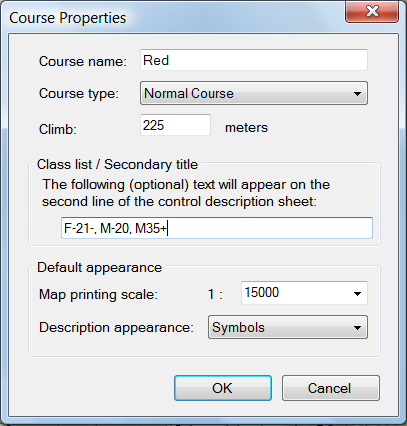
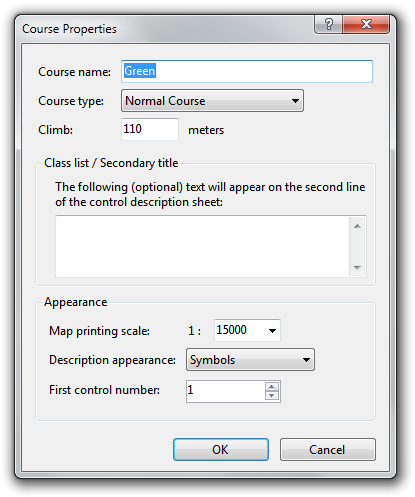
Help file and change summary for setting first control number of a course.

diff --git a/doc/userdocs/Help/CourseProperties.htm b/doc/userdocs/Help/CourseProperties.htm
@@ -38,6 +38,8 @@ dialog</a> is displayed instead.)</p>
 	automatically generated.</li>
 </li>
 </ul>
+<p><b>First control number:</b> The number given to the first control. This is typically 1, so that the course is numbered 1, 2, 3, .... If you set it to, for example, 7, 
+then the controls in the course will be numbered 7, 8, 9, .... This can be used to handle multi-part courses, map exchanges, or other special cases.</p>
 <!-- #EndEditable -->
 </BODY>
 <!-- #EndTemplate -->

diff --git a/doc/userdocs/Change Summary/change_summary.htm b/doc/userdocs/Change Summary/change_summary.htm
@@ -15,6 +15,17 @@
 <body>
 
 <h1>Purple Pen Change Summary</h1>
+<h2>Changes in 1.1.0 </h2>
+<h3>New Features</h3>
+<ul>
+<li>
+<p>You can specific the number of the first control in a course in the 
+Course/New or Course/Properties command. The number is typically 1, but you can 
+set it to another value as a way to handle multi-part courses and other special 
+situations.</p>
+</li>
+</ul>
+<h3>Bug Fixes</h3>
 <h2>Changes in 1.0.2 </h2>
 <h3>New Features</h3>
 <ul>

diff --git a/src/PurplePen/AddCourse.Designer.cs b/src/PurplePen/AddCourse.Designer.cs
@@ -71,6 +71,7 @@ namespace PurplePen
             this.oneToPrefixLabel = new System.Windows.Forms.Label();
             this.scaleCombo = new System.Windows.Forms.ComboBox();
             this.descKindCombo = new System.Windows.Forms.ComboBox();
+            this.firstControlUpDown = new System.Windows.Forms.NumericUpDown();
             this.secondaryTitleGroup = new System.Windows.Forms.GroupBox();
             this.tableLayoutPanel3 = new System.Windows.Forms.TableLayoutPanel();
             this.secondaryTitleTextBox = new System.Windows.Forms.TextBox();
@@ -84,15 +85,14 @@ namespace PurplePen
             this.flowLayoutPanel1 = new System.Windows.Forms.FlowLayoutPanel();
             this.climbTextBox = new System.Windows.Forms.TextBox();
             this.metersSuffix = new System.Windows.Forms.Label();
-            this.firstControlUpDown = new System.Windows.Forms.NumericUpDown();
             this.groupBox1.SuspendLayout();
             this.tableLayoutPanel2.SuspendLayout();
             this.flowLayoutPanel2.SuspendLayout();
+            ((System.ComponentModel.ISupportInitialize)(this.firstControlUpDown)).BeginInit();
             this.secondaryTitleGroup.SuspendLayout();
             this.tableLayoutPanel3.SuspendLayout();
             this.tableLayoutPanel1.SuspendLayout();
             this.flowLayoutPanel1.SuspendLayout();
-            ((System.ComponentModel.ISupportInitialize)(this.firstControlUpDown)).BeginInit();
             this.SuspendLayout();
             // 
             // okButton
@@ -164,6 +164,26 @@ namespace PurplePen
             resources.GetString("descKindCombo.Items1"),
             resources.GetString("descKindCombo.Items2")});
             this.descKindCombo.Name = "descKindCombo";
+            // 
+            // firstControlUpDown
+            // 
+            resources.ApplyResources(this.firstControlUpDown, "firstControlUpDown");
+            this.firstControlUpDown.Maximum = new decimal(new int[] {
+            99,
+            0,
+            0,
+            0});
+            this.firstControlUpDown.Minimum = new decimal(new int[] {
+            1,
+            0,
+            0,
+            0});
+            this.firstControlUpDown.Name = "firstControlUpDown";
+            this.firstControlUpDown.Value = new decimal(new int[] {
+            1,
+            0,
+            0,
+            0});
             // 
             // secondaryTitleGroup
             // 
@@ -250,26 +270,6 @@ namespace PurplePen
             resources.ApplyResources(this.metersSuffix, "metersSuffix");
             this.metersSuffix.Name = "metersSuffix";
             // 
-            // firstControlUpDown
-            // 
-            resources.ApplyResources(this.firstControlUpDown, "firstControlUpDown");
-            this.firstControlUpDown.Maximum = new decimal(new int[] {
-            99,
-            0,
-            0,
-            0});
-            this.firstControlUpDown.Minimum = new decimal(new int[] {
-            1,
-            0,
-            0,
-            0});
-            this.firstControlUpDown.Name = "firstControlUpDown";
-            this.firstControlUpDown.Value = new decimal(new int[] {
-            1,
-            0,
-            0,
-            0});
-            // 
             // AddCourse
             // 
             resources.ApplyResources(this, "$this");
@@ -288,6 +288,7 @@ namespace PurplePen
             this.tableLayoutPanel2.PerformLayout();
             this.flowLayoutPanel2.ResumeLayout(false);
             this.flowLayoutPanel2.PerformLayout();
+            ((System.ComponentModel.ISupportInitialize)(this.firstControlUpDown)).EndInit();
             this.secondaryTitleGroup.ResumeLayout(false);
             this.tableLayoutPanel3.ResumeLayout(false);
             this.tableLayoutPanel3.PerformLayout();
@@ -295,7 +296,6 @@ namespace PurplePen
             this.tableLayoutPanel1.PerformLayout();
             this.flowLayoutPanel1.ResumeLayout(false);
             this.flowLayoutPanel1.PerformLayout();
-            ((System.ComponentModel.ISupportInitialize)(this.firstControlUpDown)).EndInit();
             this.ResumeLayout(false);
 
         }
